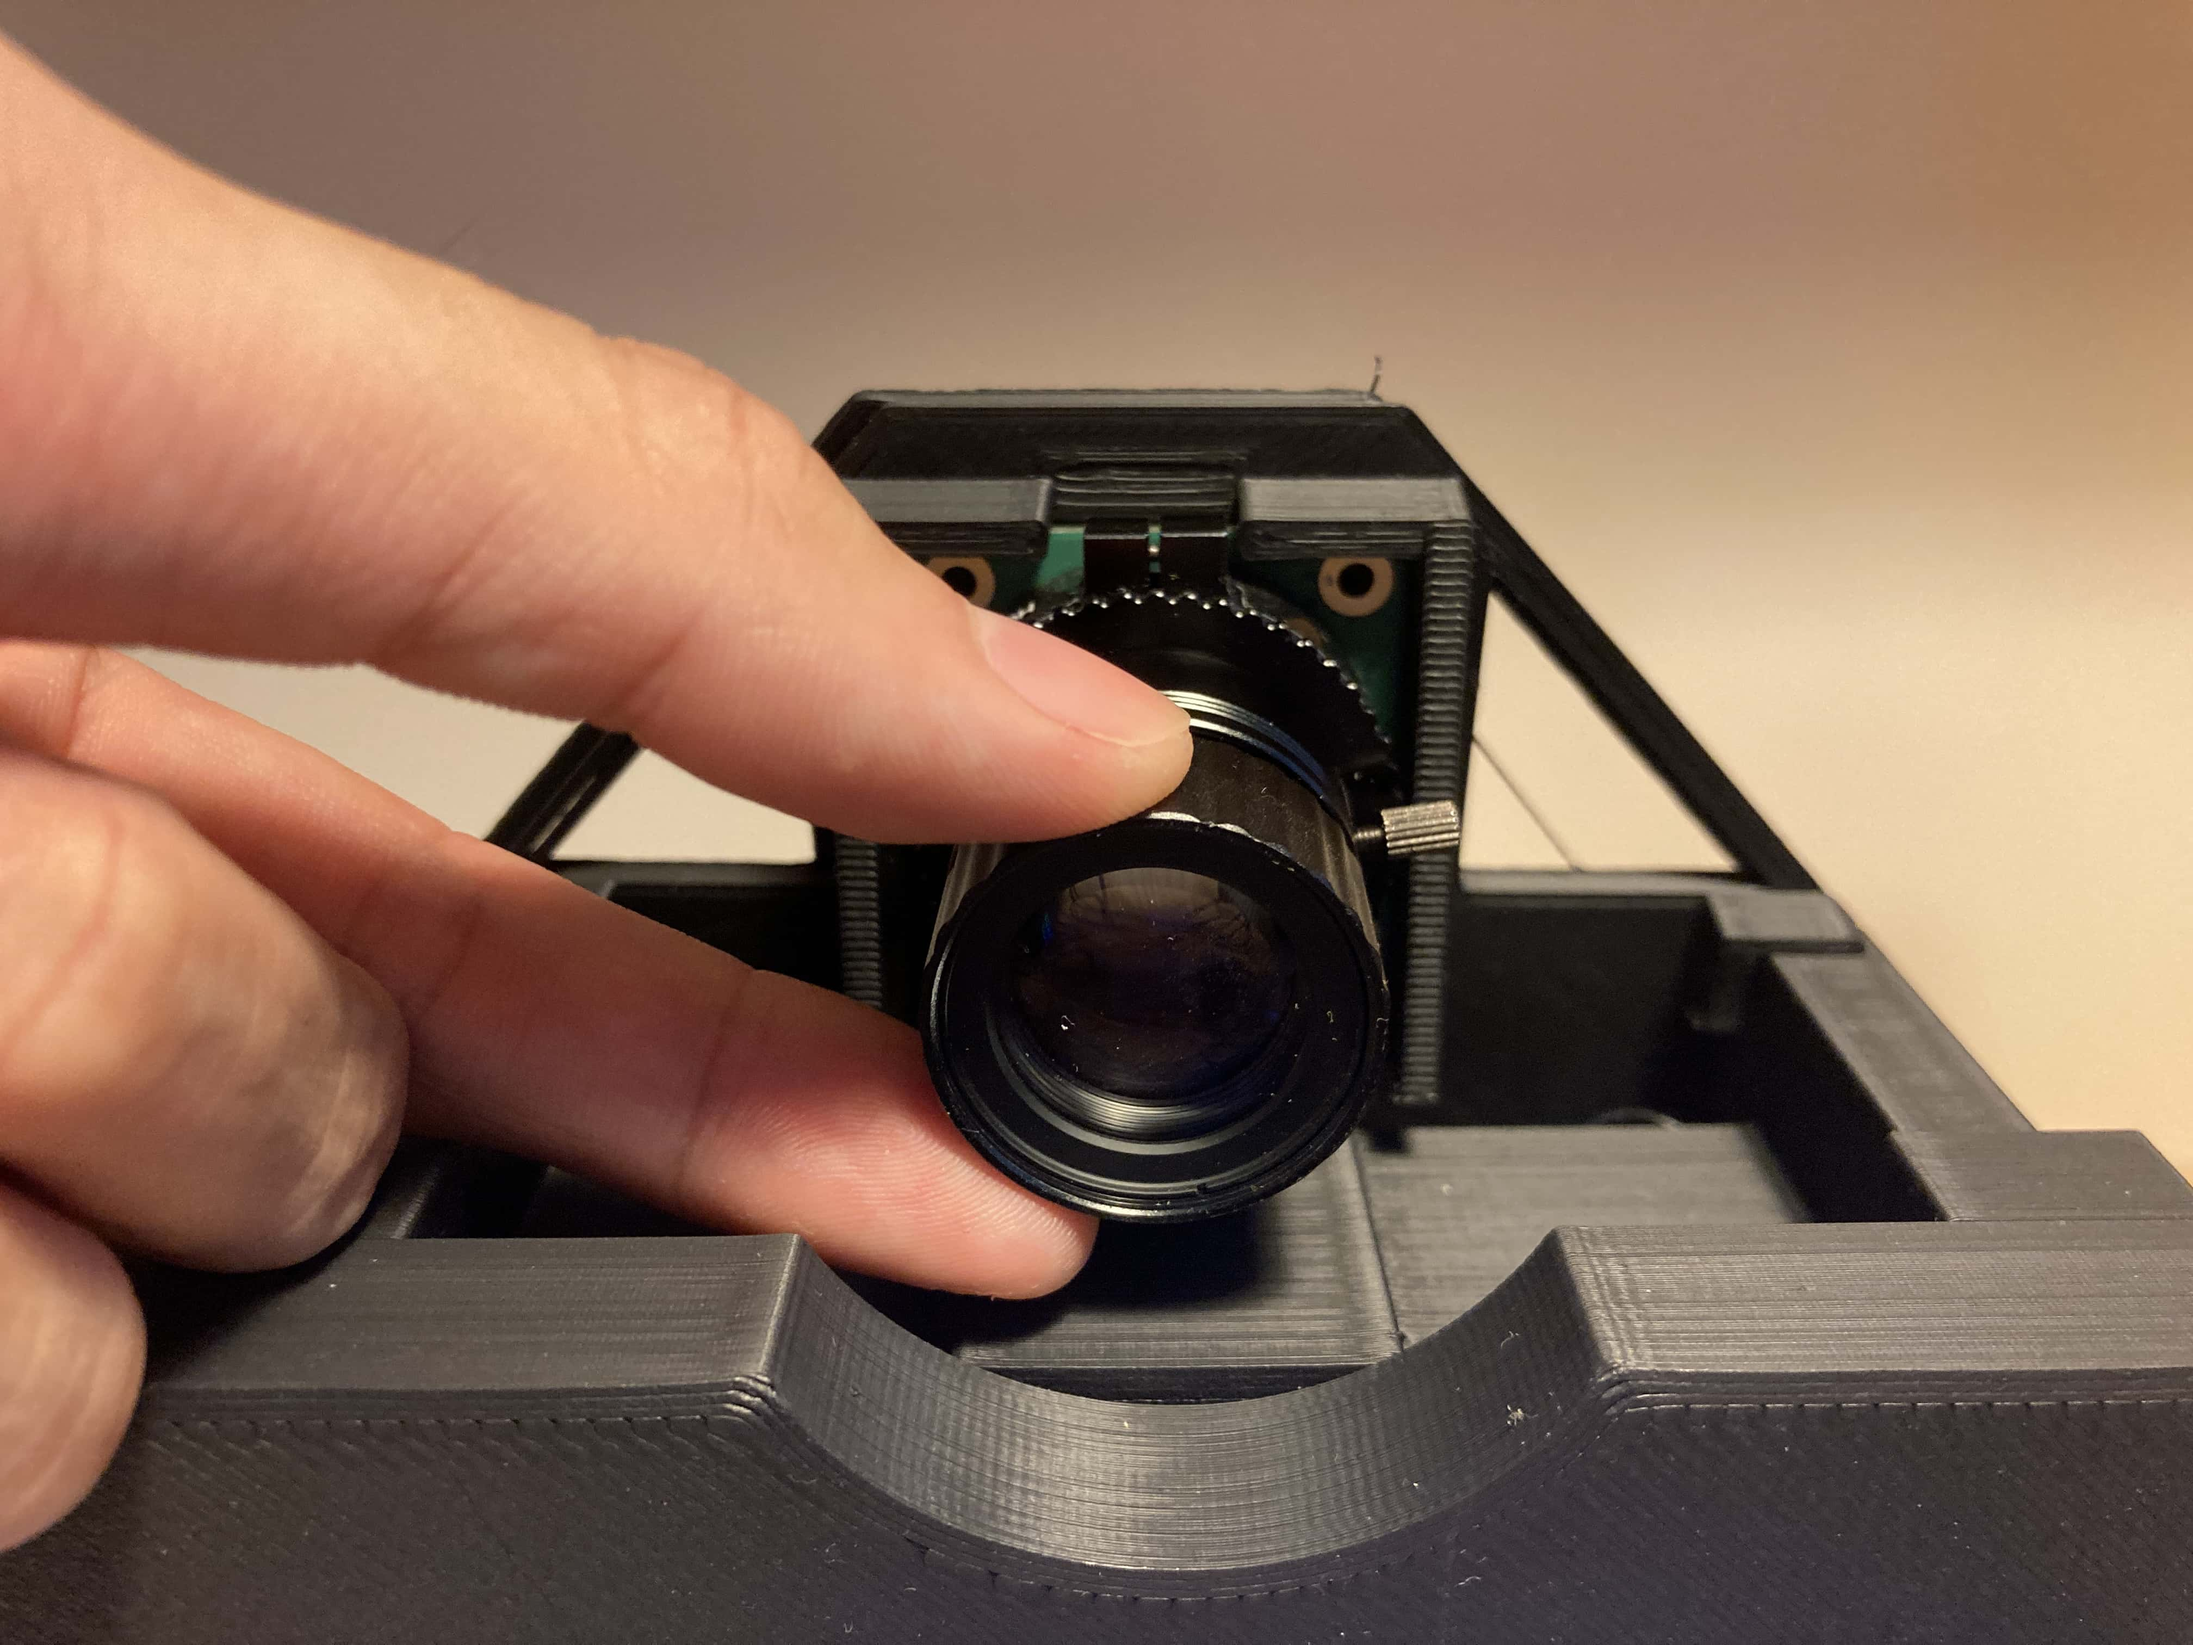
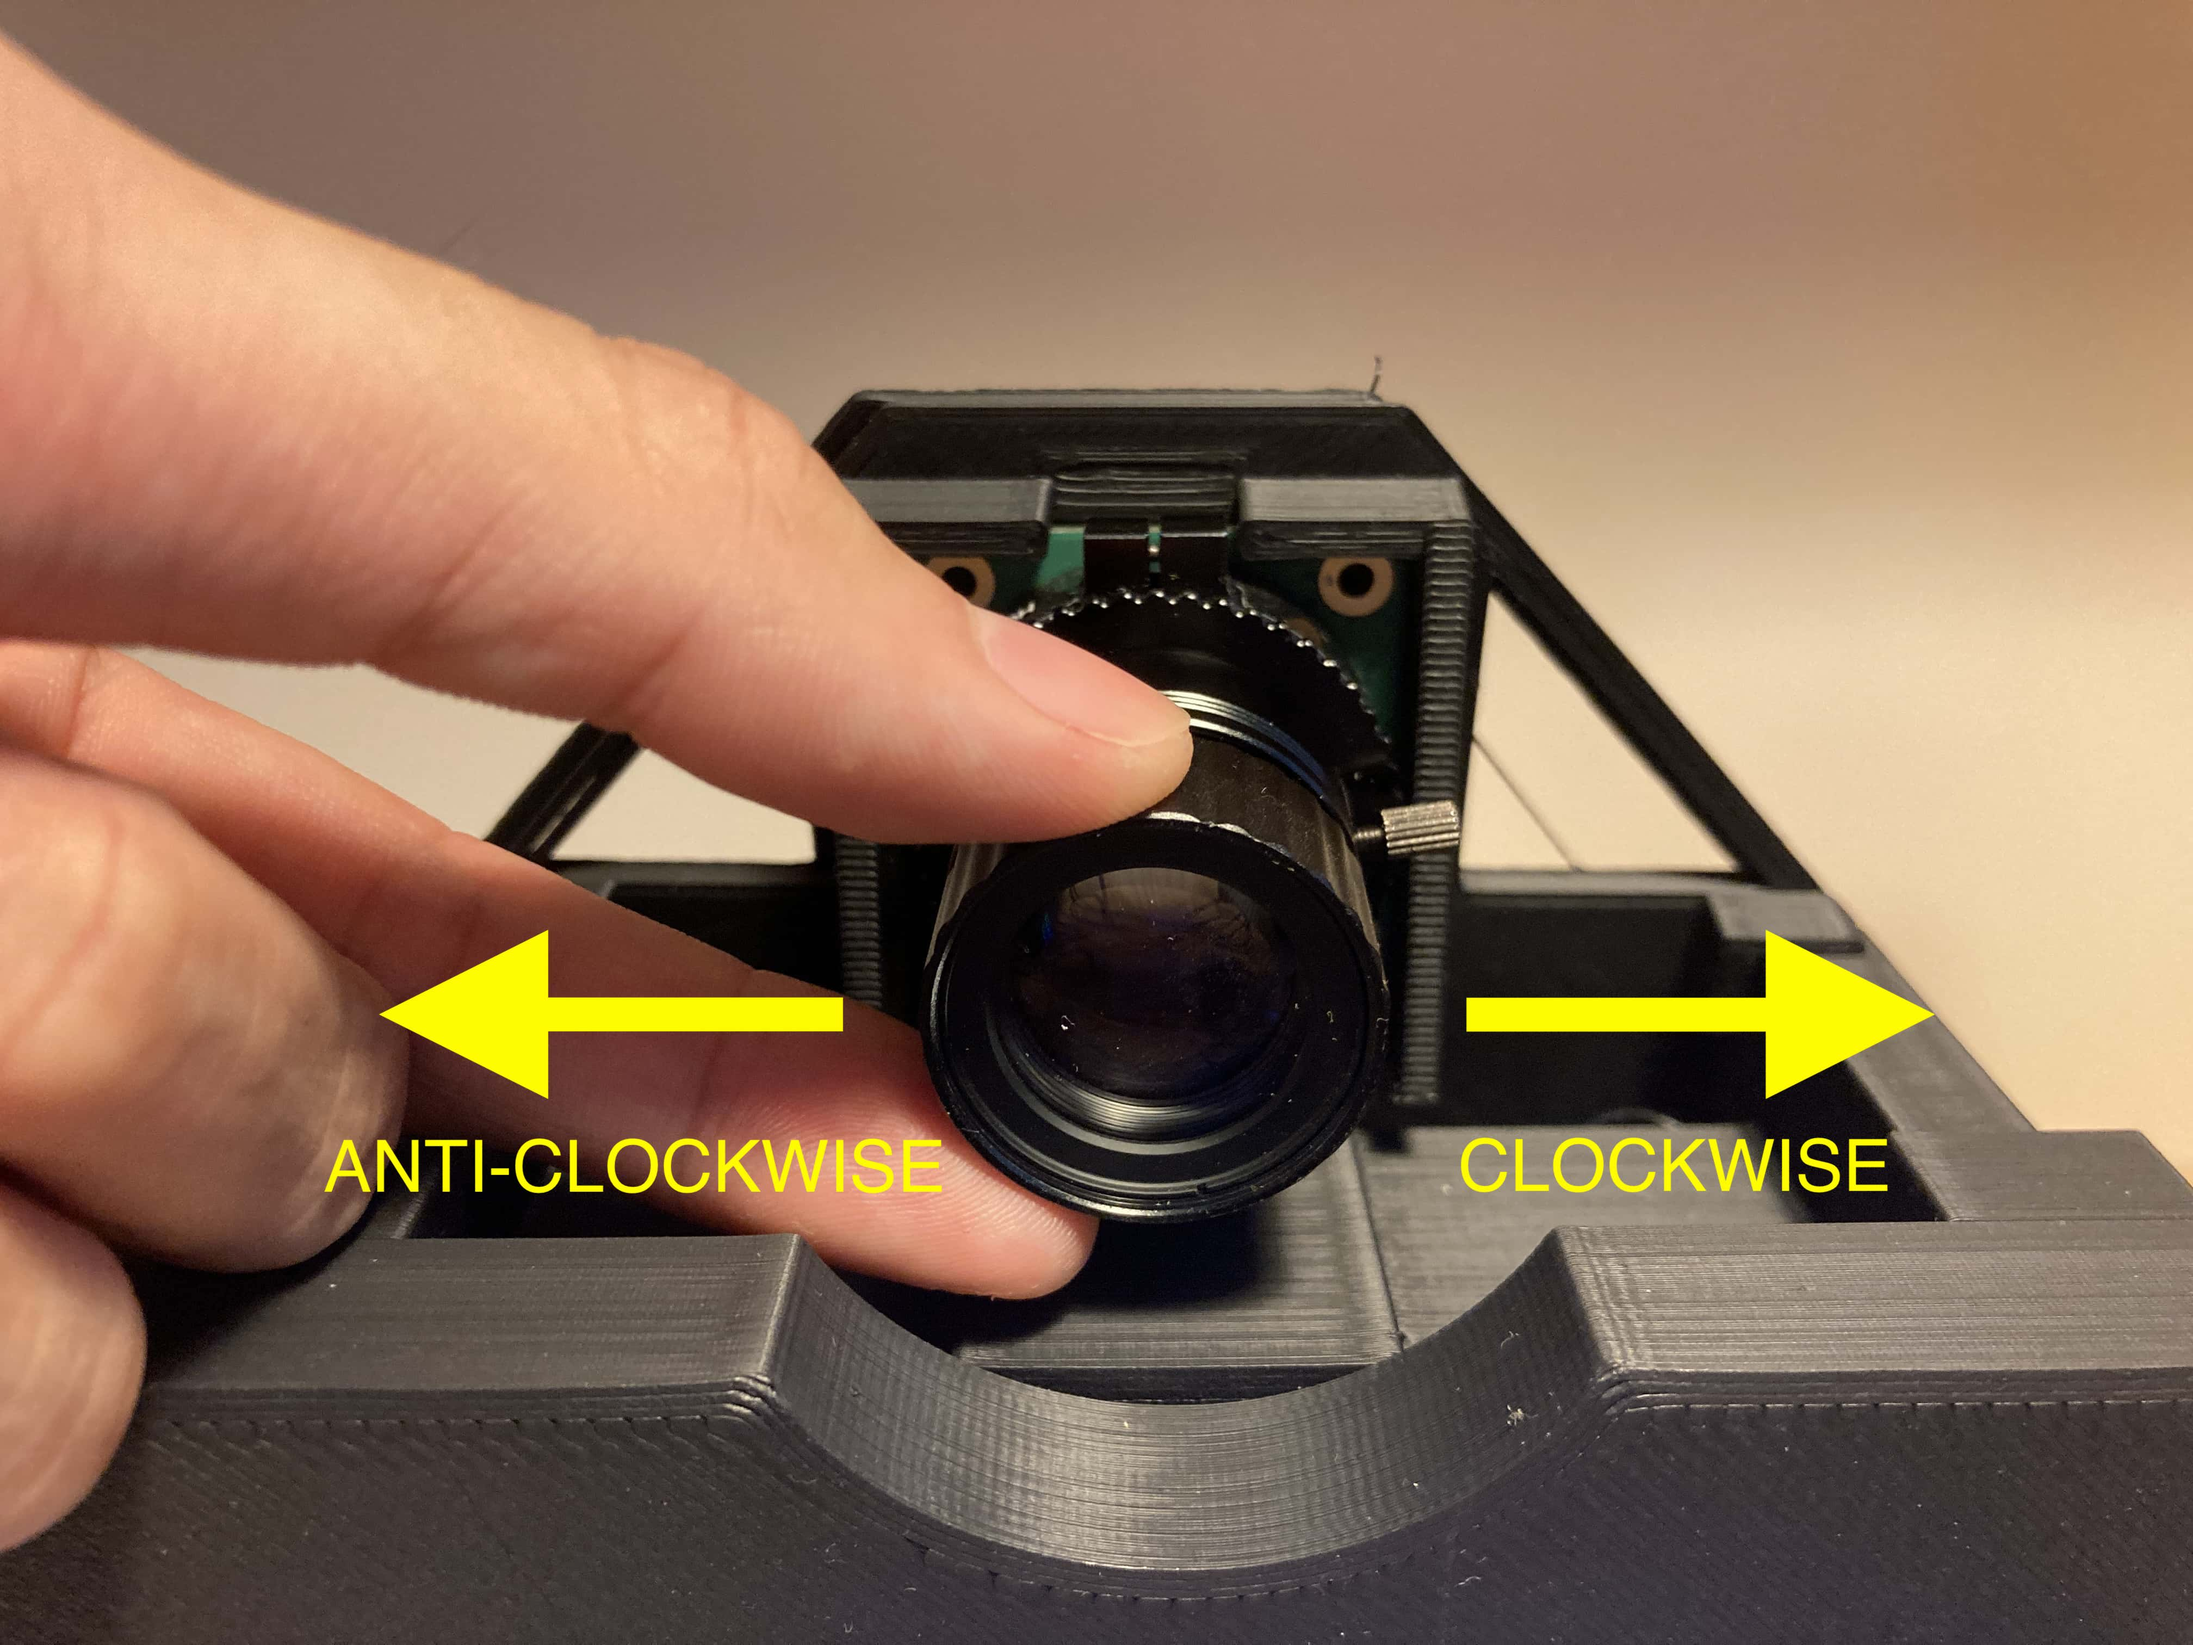
docs: camera setup / troubleshoot

Changed region(s): [[0.1562, 0.5595, 0.4375, 0.746], [0.6562, 0.5595, 0.875, 0.746]]

diff --git a/docs/user-manual/performers/troubleshooting/20211101-camera-setup.md b/docs/user-manual/performers/troubleshooting/20211101-camera-setup.md
@@ -4,11 +4,23 @@ Title: Setting up the camera correctly / troubleshooting blurry camera
 
 # Setting up the camera correctly / troubleshooting blurry camera
 
-![](/img/new-user-manual/child/18-camera.jpg)
+## Set Up
 
-![](/img/new-user-manual/child/19-camera.jpg)
+The camera is mounted at the top of the unit. It should be capped by the lens cover to prevent damage to the sensor. Remove the cap only when you need to use the unit.
 
-![](/img/new-user-manual/child/20-camera.jpg)
+![camera](/img/new-user-manual/child/18-camera.jpg)
+
+![remove cap](/img/new-user-manual/child/19-camera.jpg)
+
+---
+
+Take note to remove the **grooved ring** that is attached between the lens cap and the camera module as well. This is a **C-CS-mount Adaptor** which is not needed for our set up.
+
+![C-CS Mount Adaptor](/img/new-user-manual/child/20-camera.jpg)
+
+---
+
+Uncap your lens cap and mount the camera lens onto the camera module.
 
 ![](/img/new-user-manual/child/21-camera.jpg)
 
@@ -16,14 +28,28 @@ Title: Setting up the camera correctly / troubleshooting blurry camera
 
 ![](/img/new-user-manual/child/23-camera.jpg)
 
-![](/img/new-user-manual/child/24-camera.jpg)
+---
+
+## Aperture
+
+The camera lens should come with two dials: one for **focusing**, and one for controlling the **aperture** (exposure). Locate the dial that is responsible for **aperture** before starting on focusing.
+
+Adjust the aperture to get the desired exposure. Lock the dial in place by tightening the **extended knob** found on the dial. You may proceed to focusing the image after finishing this step.
+
+## Focus
+
+To adjust the camera's focus, turn the knob **clockwise** to focus on further objects, and **anti-clockwise** to focus on nearer objects.
 
 ![](/img/new-user-manual/child/26-camera.jpg)
 
-![](/img/new-user-manual/child-raspi/31-camfocus.png)
+You can use the **Test Camera** function in the XIMI application to test the camera's focus.
 
-![](/img/new-user-manual/child-raspi/32-camfocus.png)
+![focusing](/img/new-user-manual/child-raspi/31-camfocus.png)
 
-![](/img/new-user-manual/child-raspi/33-camfocus.png)
+![focusing](/img/new-user-manual/child-raspi/33-camfocus.png)
+
+---
+
+You may tighten the knob found on the focusing dial to lock the focus.
 
 ![](/img/new-user-manual/child/27-camera.jpg)
